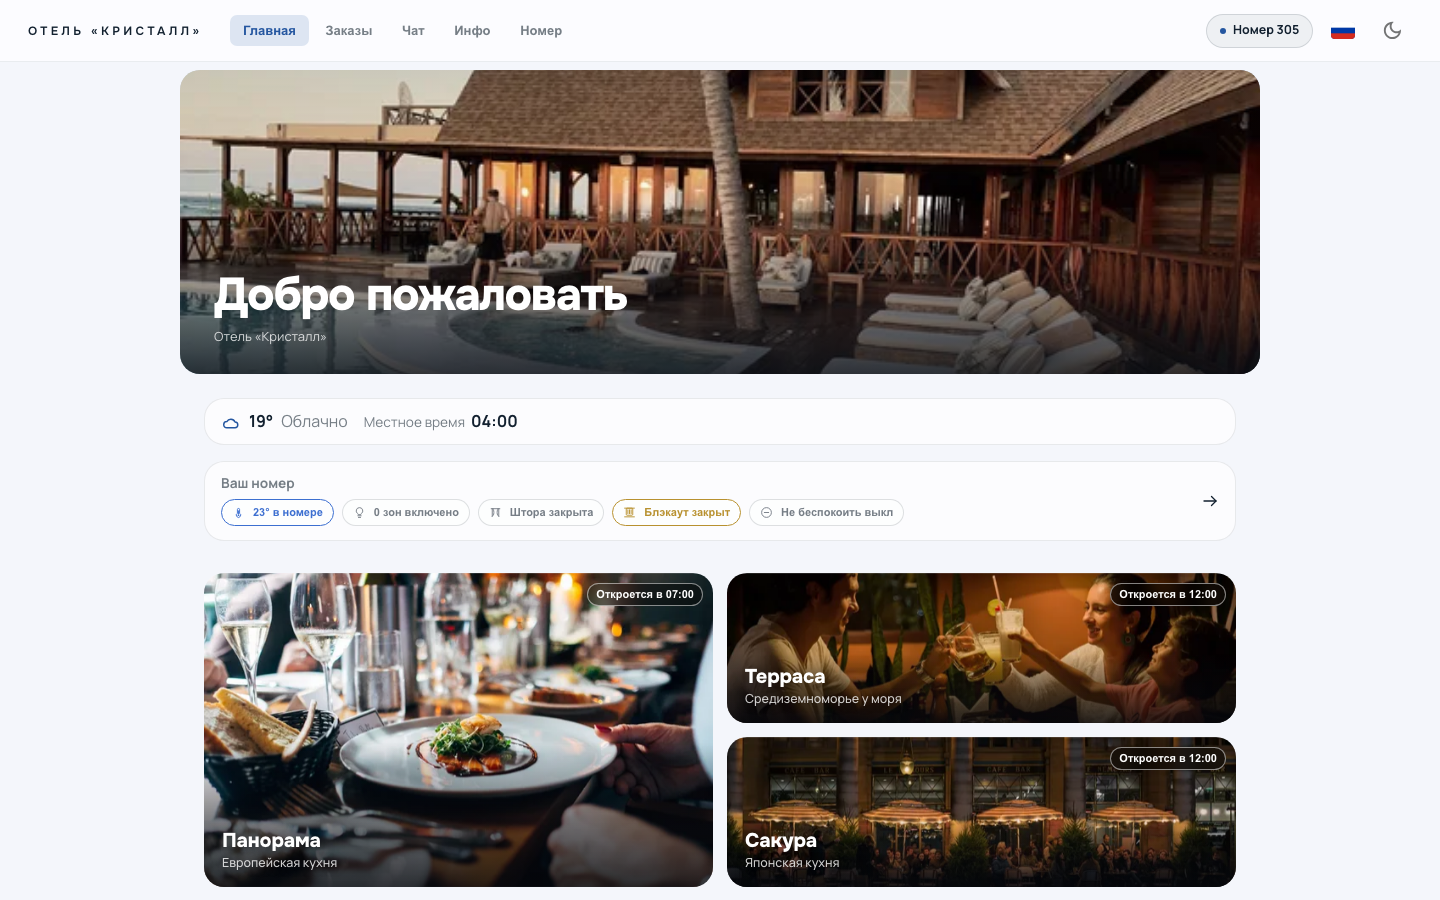
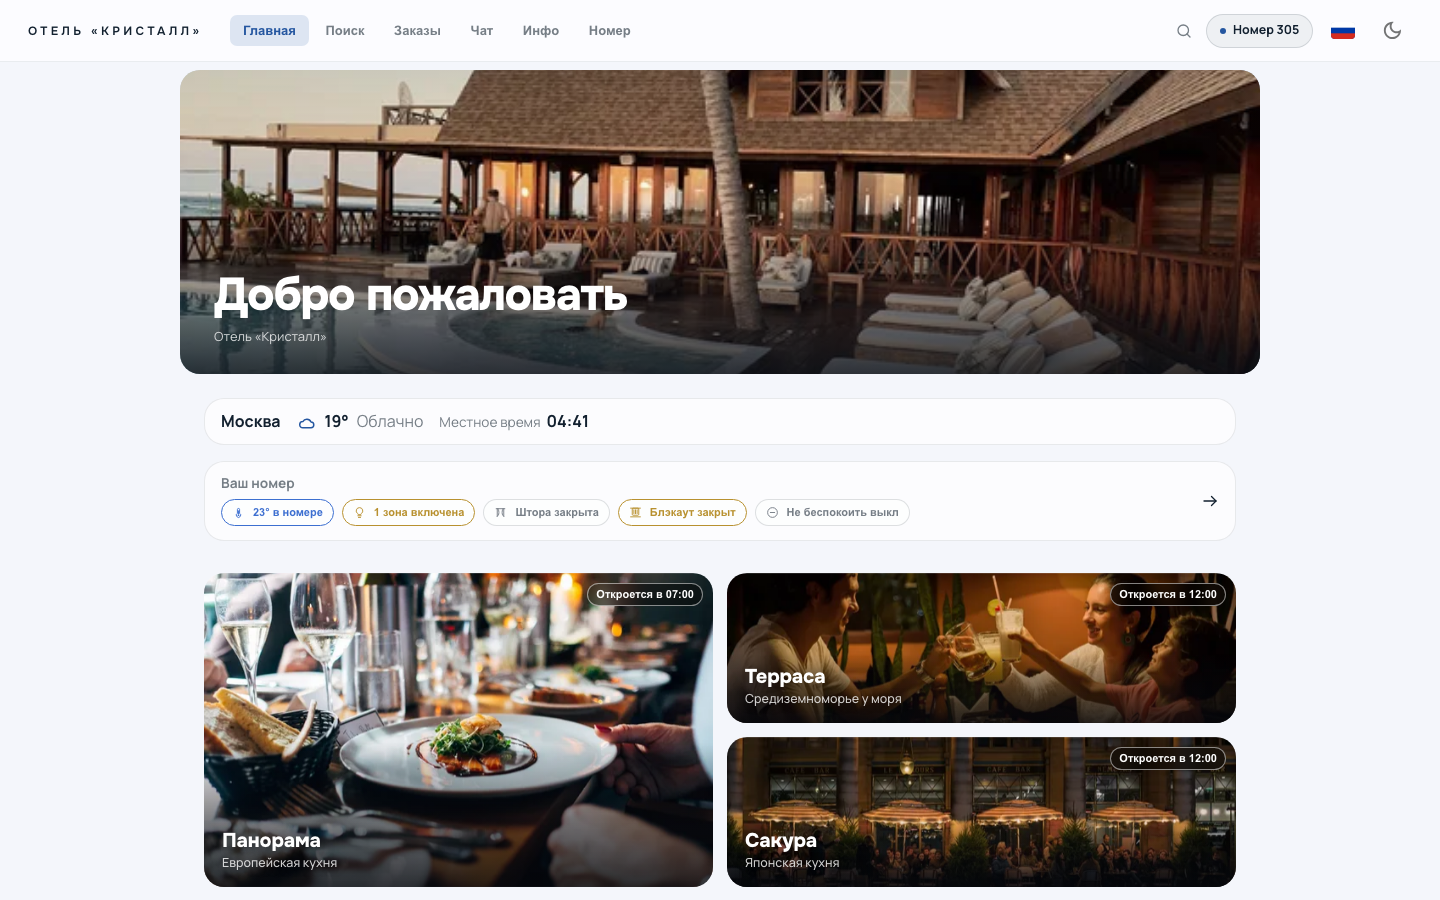
feat(guest): город подписан у погоды и часов
«21°» и «01:58» гость, приехавший издалека, читает как «здесь» — а «здесь» у
него своё. Подпись отвечает на вопрос, который иначе он задаёт себе сам, и
стоит ОДНА на весь блок: и градусы, и часы про одно место, повторять его
дважды значит сказать одно и то же двумя строками.

ГОРОД ЗАПОЛНЯЕТ ОТЕЛЬ, А НЕ ГЕОКОДЕР. Обратное геокодирование по координатам —
это ещё один внешний сервис с лицензией и лимитами ради строки, которую
оператор пишет один раз и точнее: у отеля на окраине формально другой
населённый пункт, а гостю нужен тот город, за которым он приехал.

ПЕРЕВОДИМОЕ ПОЛЕ, а не строка: город у гостя называется на его языке (Москва /
Moscow / موسكو / 莫斯科), и подставлять кириллицу в арабский интерфейс — то же
самое, что показывать ему английское «Mainly clear» вместо нашего «Ясно».

Не заполнен — подписи нет, и это законное состояние, а не пустая строка:
выдумывать город по координатам мы не станем. Оба случая проверены сторожем.

Поле — в том же разделе CMS, что координаты и переключатель погоды: по одному
на язык контента. Демо-отелю город прописан сидом на всех четырёх языках.
tsc, lint:colors, build зелёные; home-blocks 9 зелёных; кадры пересняты.

diff --git a/frontend/src/cms/settings/HomeBlocksSection.tsx b/frontend/src/cms/settings/HomeBlocksSection.tsx
@@ -17,6 +17,7 @@ import { ApiError } from '@/api/client';
 import { fetchHomeSettings, putHomeSettings } from '@/api/cms';
 import { queryKeys } from '@/api/queryKeys';
 import { useToast } from '@/components/ToastProvider';
+import { useBootstrap, useContentLanguages } from '@/hooks/useBootstrap';
 
 /**
  * Настройки главной витрины: погода, координаты отеля, строка состояния номера.
@@ -36,12 +37,18 @@ export function HomeBlocksSection() {
   const queryClient = useQueryClient();
   const toast = useToast();
 
+  const { data: bootstrap } = useBootstrap();
+  const contentLanguages = useContentLanguages(bootstrap);
   const query = useQuery({ queryKey: queryKeys.homeSettings, queryFn: fetchHomeSettings });
 
   const [weather, setWeather] = useState(false);
   const [roomStatus, setRoomStatus] = useState(true);
   const [latitude, setLatitude] = useState('');
   const [longitude, setLongitude] = useState('');
+  // Город — подпись к погоде и часам у гостя, поэтому переводами, как весь
+  // гостевой текст: «Москва» в арабском интерфейсе читается не лучше, чем
+  // «Mainly clear».
+  const [city, setCity] = useState<Record<string, string>>({});
 
   useEffect(() => {
     if (!query.data) return;
@@ -49,6 +56,7 @@ export function HomeBlocksSection() {
     setRoomStatus(query.data.room_status);
     setLatitude(query.data.latitude === null ? '' : String(query.data.latitude));
     setLongitude(query.data.longitude === null ? '' : String(query.data.longitude));
+    setCity(query.data.city ?? {});
   }, [query.data]);
 
   const save = useMutation({
@@ -58,6 +66,7 @@ export function HomeBlocksSection() {
         room_status: roomStatus,
         latitude: latitude.trim() === '' ? null : Number(latitude),
         longitude: longitude.trim() === '' ? null : Number(longitude),
+        city,
       }),
     onSuccess: (data) => {
       queryClient.setQueryData(queryKeys.homeSettings, data);
@@ -71,6 +80,7 @@ export function HomeBlocksSection() {
   if (query.isError) return <Alert severity="error">{t('cms.homeBlocks.loadFailed')}</Alert>;
 
   const point = latitude.trim() !== '' && longitude.trim() !== '';
+  const languages = contentLanguages;
   const provider = query.data.weather_provider;
 
   return (
@@ -101,6 +111,26 @@ export function HomeBlocksSection() {
               fullWidth
               size="small"
             />
+          </Stack>
+
+          {/* Город — подпись к погоде и часам. Пусто — подписи у гостя нет. */}
+          <Stack spacing={1}>
+            <Typography variant="body2" sx={{ fontWeight: 600 }}>
+              {t('cms.homeBlocks.city')}
+            </Typography>
+            <Stack direction={{ xs: 'column', sm: 'row' }} spacing={1}>
+              {languages.codes.map((code) => (
+                <TextField
+                  key={code}
+                  size="small"
+                  label={code.toUpperCase()}
+                  value={city[code] ?? ''}
+                  onChange={(event) => setCity({ ...city, [code]: event.target.value })}
+                  inputProps={{ 'data-testid': `cms-home-city-${code}` }}
+                  fullWidth
+                />
+              ))}
+            </Stack>
           </Stack>
 
           <FormControlLabel

diff --git a/frontend/src/guest/components/HomeWeather.tsx b/frontend/src/guest/components/HomeWeather.tsx
@@ -109,9 +109,15 @@ function sameOffset(timezone: string | undefined): boolean {
 export interface HomeWeatherProps {
   weather?: GuestWeather | null;
   timezone?: string;
+  /**
+   * Город отеля на языке гостя. ОДНА подпись на весь блок: и градусы, и часы
+   * относятся к одному месту, и повторять его дважды значит сказать гостю
+   * одно и то же двумя строками.
+   */
+  city?: string;
 }
 
-export function HomeWeather({ weather, timezone }: HomeWeatherProps) {
+export function HomeWeather({ weather, timezone, city }: HomeWeatherProps) {
   const { t, i18n } = useTranslation();
   const calm = useMediaQuery('(prefers-reduced-motion: reduce)');
   const clock = useHotelClock(timezone, i18n.language);
@@ -154,6 +160,23 @@ export function HomeWeather({ weather, timezone }: HomeWeatherProps) {
         },
       })}
     >
+      {/*
+        ГОРОД ВПЕРЕДИ, и это не украшение: гость, приехавший издалека, читает
+        «21°» и «01:58» как «здесь», а «здесь» у него своё. Подпись отвечает на
+        вопрос, который иначе задаёт себе он сам.
+
+        Нет города — нет подписи: выдумывать его по координатам мы не станем.
+      */}
+      {city ? (
+        <Typography
+          variant="subtitle2"
+          data-testid="guest-home-city"
+          sx={{ fontWeight: 700, color: 'text.primary' }}
+        >
+          {city}
+        </Typography>
+      ) : null}
+
       {weather && Icon ? (
         <Stack direction="row" alignItems="center" spacing={1} data-testid="guest-home-weather-now">
           <Box sx={{ display: 'flex', color: 'primary.main' }} aria-hidden>

diff --git a/e2e/tests/home-blocks.spec.ts b/e2e/tests/home-blocks.spec.ts
@@ -71,6 +71,25 @@ test.describe('Главная: погода и время', () => {
       включая платный план и свой экземпляр.
     */
     await expect(page.getByTestId('guest-home-weather-attribution')).toHaveCount(0)
+
+    /*
+      ГОРОД ПОДПИСАН. Гость, приехавший издалека, читает «21°» и «01:58» как
+      «здесь», а «здесь» у него своё: без подписи цифры отвечают не на тот
+      вопрос. Подпись одна на весь блок — и градусы, и часы про одно место.
+    */
+    await expect(page.getByTestId('guest-home-city')).toHaveText(/\S+/)
+  })
+
+  test('города нет — подписи нет, а погода остаётся', async ({ page }) => {
+    await homeAnswers(page, {
+      weather: { temperature_c: 7, code: 3, is_day: true, observed_at: new Date().toISOString() },
+      hotel: { name: 'Отель «Кристалл»', subdomain: 'crystal', timezone: 'Europe/Moscow' },
+    })
+    await enterRoom(page)
+
+    await expect(page.getByTestId('guest-home-weather-now')).toBeVisible({ timeout: 15_000 })
+    // Выдумывать город по координатам мы не станем: не заполнен — не показан.
+    await expect(page.getByTestId('guest-home-city')).toHaveCount(0)
   })
 
   test('погоды нет — блока нет вовсе: ни прочерков, ни заглушек', async ({ page }) => {

diff --git a/frontend/src/api/cms.ts b/frontend/src/api/cms.ts
@@ -377,6 +377,8 @@ export interface HomeSettings {
   room_status: boolean;
   latitude: number | null;
   longitude: number | null;
+  /** Город — подпись к погоде и часам, переводами. */
+  city: Record<string, string>;
   /** Погоду нельзя включить без координат — сервер говорит об этом прямо. */
   weather_available: boolean;
   /** Строка номера имеет смысл только с модулем управления. */
@@ -390,7 +392,7 @@ export function fetchHomeSettings(): Promise<HomeSettings> {
 }
 
 export function putHomeSettings(
-  payload: Pick<HomeSettings, 'weather' | 'room_status' | 'latitude' | 'longitude'>,
+  payload: Pick<HomeSettings, 'weather' | 'room_status' | 'latitude' | 'longitude' | 'city'>,
 ): Promise<HomeSettings> {
   return api.put<HomeSettings>('/cms/home-settings', payload);
 }

diff --git a/frontend/src/guest/pages/HomePage.tsx b/frontend/src/guest/pages/HomePage.tsx
@@ -63,7 +63,11 @@ export function HomePage() {
           ни заглушек, ни зарезервированного места под то, чего нет.
         */}
         <Stack spacing={{ xs: 1.5, md: 2 }} sx={{ mb: { xs: 3, md: 4 } }}>
-          <HomeWeather weather={data?.weather} timezone={data?.hotel?.timezone ?? hotel?.timezone} />
+          <HomeWeather
+            weather={data?.weather}
+            timezone={data?.hotel?.timezone ?? hotel?.timezone}
+            city={data?.hotel?.city}
+          />
           <HomeRoomStatus allowed={data?.room_status !== false} />
           <ActiveOrderStrip />
         </Stack>

diff --git a/frontend/src/guest/api/types.ts b/frontend/src/guest/api/types.ts
@@ -577,6 +577,8 @@ export interface GuestHome {
     theme?: PartialBrandTokens;
     /** Часовой пояс отеля: местное время витрина тикает сама. */
     timezone?: string;
+    /** Город — подпись к погоде и часам на языке гостя. Пусто — подписи нет. */
+    city?: string;
   };
   room: string | null;
   /** Погода или ничего. Устаревшего здесь не бывает — сервер его не отдаёт. */

diff --git a/backend/api/cms/catalog.py b/backend/api/cms/catalog.py
@@ -465,6 +465,8 @@ class HomeSettingsIn(Schema):
     room_status: bool = True
     latitude: float | None = None
     longitude: float | None = None
+    # Город — подпись к погоде и часам, на языке гостя. Переводы, а не строка.
+    city: dict = {}
 
 
 def _home_settings_payload(hotel) -> dict:
@@ -474,6 +476,7 @@ def _home_settings_payload(hotel) -> dict:
         "room_status": bool(home.get("room_status", True)),
         "latitude": float(hotel.latitude) if hotel.latitude is not None else None,
         "longitude": float(hotel.longitude) if hotel.longitude is not None else None,
+        "city": hotel.city or {},
         # Отель без координат раздела погоды не видит: показывать переключатель,
         # который ничего не включает, — обманывать оператора.
         "weather_available": hotel.latitude is not None and hotel.longitude is not None,
@@ -514,6 +517,9 @@ def cms_put_home_settings(request: HttpRequest, payload: HomeSettingsIn):
 
     hotel.latitude = payload.latitude
     hotel.longitude = payload.longitude
+    # Пустые переводы не храним: город, которого нет ни на одном языке, — это
+    # не город, а пустая подпись под погодой.
+    hotel.city = {code: text for code, text in (payload.city or {}).items() if text}
     settings = dict(hotel.settings or {})
     home = dict(settings.get("home") or {})
     # Погоду нельзя включить без координат: включённый флаг без точки — это
@@ -522,7 +528,7 @@ def cms_put_home_settings(request: HttpRequest, payload: HomeSettingsIn):
     home["room_status"] = bool(payload.room_status)
     settings["home"] = home
     hotel.settings = settings
-    hotel.save(update_fields=["latitude", "longitude", "settings", "updated_at"])
+    hotel.save(update_fields=["latitude", "longitude", "city", "settings", "updated_at"])
     return _home_settings_payload(hotel)
 
 

diff --git a/backend/apps/hotels/models.py b/backend/apps/hotels/models.py
@@ -40,6 +40,19 @@ class Hotel(BaseModel):
     latitude = models.DecimalField(max_digits=9, decimal_places=6, null=True, blank=True)
     longitude = models.DecimalField(max_digits=9, decimal_places=6, null=True, blank=True)
 
+    # Город — ПОДПИСЬ к погоде и часам: «Москва · 21° · 01:58». Без неё гость,
+    # приехавший издалека, читает цифры как «здесь», а «здесь» у него своё.
+    #
+    # Переводимое поле, а не строка: город у гостя называется на его языке
+    # (Москва / Moscow / موسكو / 莫斯科), и подставлять кириллицу в арабский
+    # интерфейс — то же самое, что показывать ему английское «Mainly clear».
+    #
+    # ЗАПОЛНЯЕТ ОТЕЛЬ, а не геокодер по координатам. Обратное геокодирование —
+    # ещё один внешний сервис с лицензией и лимитами ради строки, которую
+    # оператор пишет один раз и точнее: у отеля на окраине формально другой
+    # населённый пункт, а гостю нужен тот город, за которым он приехал.
+    city = TranslatableField()
+
     default_language = models.CharField(max_length=8, default="en")
     currency = models.CharField(max_length=3, default="RUB")
     # Число знаков после запятой, то есть ПОКАЗАТЕЛЬ СТЕПЕНИ, а не множитель:

diff --git a/backend/apps/hotels/management/commands/seed_demo_hotel.py b/backend/apps/hotels/management/commands/seed_demo_hotel.py
@@ -2167,10 +2167,13 @@ class Command(BaseCommand):
         """
         hotel.latitude = Decimal("55.755800")
         hotel.longitude = Decimal("37.617300")
+        # Город — подпись к погоде и часам, на всех четырёх языках: гость
+        # читает её на своём.
+        hotel.city = {"ru": "Москва", "en": "Moscow", "ar": "موسكو", "zh": "莫斯科"}
         settings = dict(hotel.settings or {})
         settings["home"] = {"weather": True, "room_status": True}
         hotel.settings = settings
-        hotel.save(update_fields=["latitude", "longitude", "settings", "updated_at"])
+        hotel.save(update_fields=["latitude", "longitude", "city", "settings", "updated_at"])
 
     def _seed_rich_commerce(self, hotel):
         # Отельные ставки — чтобы разбивка заказа была видна.

diff --git a/backend/api/chat_reviews.py b/backend/api/chat_reviews.py
@@ -61,6 +61,9 @@ def guest_home(request: HttpRequest):
             # Часовой пояс отеля — чтобы витрина показывала МЕСТНОЕ время и
             # тикала сама, а не спрашивала сервер каждую минуту.
             "timezone": hotel.timezone,
+            # Город — подпись к погоде и часам на языке гостя. Пусто — подписи
+            # не будет: выдумывать город по координатам мы не станем.
+            "city": translate(hotel.city, language),
         },
         "room": request.guest_session.room.number if request.guest_session.room_id else None,
         # Погода приезжает ГОТОВОЙ и только с сервера: адреса провайдера

diff --git a/backend/apps/hotels/migrations/0017_hotel_city.py b/backend/apps/hotels/migrations/0017_hotel_city.py
@@ -1,0 +1,19 @@
+# Generated by Django 5.2.16 on 2026-08-08 01:35
+
+import apps.core.fields
+from django.db import migrations
+
+
+class Migration(migrations.Migration):
+
+    dependencies = [
+        ('hotels', '0016_hotel_latitude_hotel_longitude'),
+    ]
+
+    operations = [
+        migrations.AddField(
+            model_name='hotel',
+            name='city',
+            field=apps.core.fields.TranslatableField(),
+        ),
+    ]
